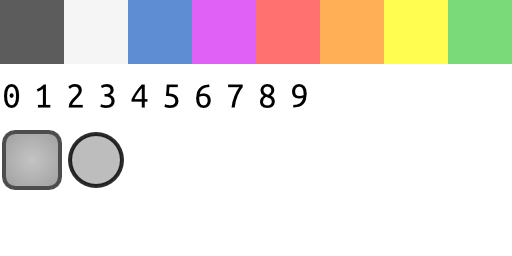
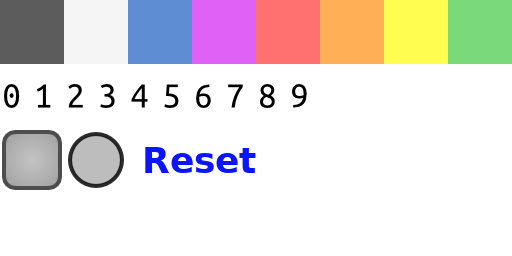
Added reset button

Changed region(s): [[0.2812, 0.5625, 0.5, 0.6875]]

diff --git a/src/textures.js b/src/textures.js
@@ -3,7 +3,9 @@ const Stage = require('stage-js/platform/web');
 const ratio = 20;
 
 module.exports = {
+  image: 'example.png',
   textures : {
+    'reset': { x: 144, y: 144, width: 120, height: 35 },
     'bg' : Stage.canvas(function(ctx) {
       this.size(30, 30, ratio);
       ctx.scale(ratio, ratio);
@@ -42,6 +44,6 @@ module.exports = {
     }),
     '-' : Stage.canvas(function(ctx) {
       this.size(10, 10, ratio);
-    })
+    }),
   }
 }

diff --git a/src/index.js b/src/index.js
@@ -26,4 +26,19 @@ Stage(function(stage) {
       handle: 0.5
     }).on('click', onClick);
   }
+
+  function resetBoard(boardState) {
+    for(let x = 0; x < 3; x++) {
+      for(let y = 0; y < 3; y++) {
+        board[x][y].image('-')
+      }
+    }
+  }
+  Stage.image('reset').appendTo(stage).pin({
+    alignX: 0,
+    alignY: 0.4,
+    handle: 0.5,
+    scale: 0.05
+  }).on('click', resetBoard);
+
 });
